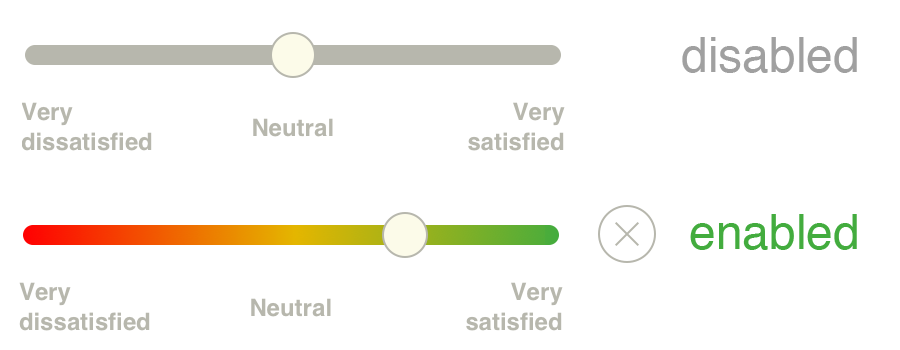
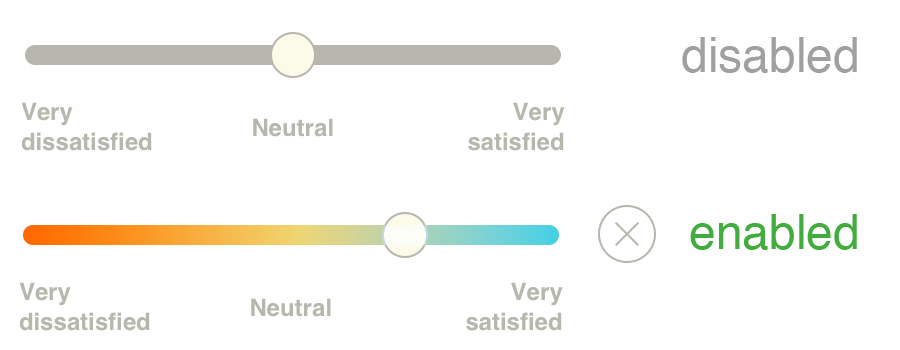
refactoring and bugfixing

Changed region(s): [[0.0, 0.6286, 0.4356, 0.7143], [0.4667, 0.6286, 0.6222, 0.7143]]

diff --git a/ICSlider/ICSlider.m b/ICSlider/ICSlider.m
@@ -40,62 +40,80 @@
 {
     self = [super initWithFrame:frame];
     if (self) {
-        
         NSUInteger sliderWidth = SLIDER_WIDTH_PERCENT * frame.size.width;
-        _sliderGrayBackground = [[UIImage graySliderImageForSize:CGSizeMake(sliderWidth, 10)] resizableImageWithCapInsets:UIEdgeInsetsMake(7, 7, 7, 7)];
-        _sliderGradientBackground = [[UIImage gradientSliderImageForSize:CGSizeMake(sliderWidth, 10)] resizableImageWithCapInsets:UIEdgeInsetsMake(7, 7, 7, 7)];
-        
-        _slider = [[UISlider alloc] initWithFrame:CGRectMake(0, 10, sliderWidth, 23)];
-        [self setSliderBackground:self.sliderGrayBackground];
-        [_slider setThumbImage:[[UIImage sliderThumbImageWithSize:CGSizeMake(26,26)]resizableImageWithCapInsets:UIEdgeInsetsMake(24, 24, 24, 24)] forState:UIControlStateNormal];
-        [_slider setMaximumValue:SLIDER_MAX_VALUE];
-        [_slider setMinimumValue:SLIDER_MIN_VALUE];
-        [_slider addTarget:self action:@selector(sliderDidUpdate:) forControlEvents:UIControlEventValueChanged];
-        [_slider setValue:SLIDER_CENTER_VALUE];
-        
-        [self addSubview:_slider];
 
-        CGFloat resetButtonSize = RESET_BUTTON_WIDTH_PERCENT * frame.size.width;
-        CGFloat resetButtonCenterX = frame.origin.x + frame.size.width - (resetButtonSize / 2.0);
-        CGFloat resetButtonCenterY = _slider.center.y;
-
-        _resetButton = [[UIButton alloc] initWithFrame:CGRectMake(0, 0, resetButtonSize, resetButtonSize)];
-        [_resetButton setCenter:CGPointMake(resetButtonCenterX, resetButtonCenterY)];
-        [_resetButton addTarget:self action:@selector(resetSlider) forControlEvents:UIControlEventTouchUpInside];
-        [_resetButton setImage:[UIImage sliderResetButtonImageForSize:_resetButton.frame.size] forState:UIControlStateNormal];
-        [self.resetButton setHidden:YES];
-        [self addSubview:_resetButton];
-
-        _minValueLabel = [[UILabel alloc] initWithFrame:CGRectMake(0, _slider.frame.size.height + LABEL_Y_OFFSET, LABEL_WIDTH, 40)];
-        [_minValueLabel setTextAlignment:NSTextAlignmentLeft];
-        [_minValueLabel setBackgroundColor:[UIColor clearColor]];
-        [_minValueLabel setNumberOfLines:NUMBER_OF_TEXT_LINES];
-        [_minValueLabel setFont:[UIFont fontWithName:LABEL_FONT_NAME size:LABEL_FONT_SIZE]];
-        [_minValueLabel setTextColor:LABEL_FONT_COLOR];
-        [_minValueLabel setText:@"Very dissatisfied"];
-        [self addSubview:_minValueLabel];
-
-        _midValueLabel = [[UILabel alloc] initWithFrame:CGRectMake(0, 0, LABEL_WIDTH, 40)];
-        [_midValueLabel setCenter:CGPointMake(_slider.center.x, _minValueLabel.center.y)];
-        [_midValueLabel setTextAlignment:NSTextAlignmentCenter];
-        [_midValueLabel setBackgroundColor:[UIColor clearColor]];
-        [_midValueLabel setNumberOfLines:NUMBER_OF_TEXT_LINES];
-        [_midValueLabel setFont:[UIFont fontWithName:LABEL_FONT_NAME size:LABEL_FONT_SIZE]];
-        [_midValueLabel setTextColor:LABEL_FONT_COLOR];
-        [_midValueLabel setText:@"Neutral"];
-        [self addSubview:_midValueLabel];
-
-        _maxValueLabel = [[UILabel alloc] initWithFrame:CGRectMake(_slider.frame.size.width - LABEL_WIDTH, _slider.frame.size.height + LABEL_Y_OFFSET, LABEL_WIDTH, 40)];
-        [_maxValueLabel setTextAlignment:NSTextAlignmentRight];
-        [_maxValueLabel setBackgroundColor:[UIColor clearColor]];
-        [_maxValueLabel setNumberOfLines:NUMBER_OF_TEXT_LINES];
-        [_maxValueLabel setFont:[UIFont fontWithName:LABEL_FONT_NAME size:LABEL_FONT_SIZE]];
-        [_maxValueLabel setTextColor:LABEL_FONT_COLOR];
-        [_maxValueLabel setText:@"Very satisfied"];
-        [self addSubview:_maxValueLabel];
+        [self setupSliderBackgroundsForWidth:sliderWidth];
+        [self setupSliderForWidth:sliderWidth];
+        [self setupResetButton];
+        [self setupLabels];
 
     }
     return self;
+}
+
+- (void)setupSliderBackgroundsForWidth:(CGFloat)width {
+    UIEdgeInsets capInsets = UIEdgeInsetsMake(7, 7, 7, 7);
+    self.sliderGrayBackground = [[UIImage graySliderImageForSize:CGSizeMake(width, 10)] resizableImageWithCapInsets:capInsets];
+    self.sliderGradientBackground = [[UIImage gradientSliderImageForSize:CGSizeMake(width, 10)] resizableImageWithCapInsets:capInsets];
+}
+
+- (void)setupSliderForWidth:(CGFloat)width {
+    self.slider = [[UISlider alloc] initWithFrame:CGRectMake(0, 10, width, 23)];
+    [self setSliderBackground:self.sliderGrayBackground];
+
+    UIImage *sliderThumbImage = [UIImage sliderThumbImageWithSize:CGSizeMake(26,26)];
+    sliderThumbImage = [sliderThumbImage resizableImageWithCapInsets:UIEdgeInsetsMake(24, 24, 24, 24)];
+
+    [self.slider setThumbImage:sliderThumbImage forState:UIControlStateNormal];
+    [self.slider setMaximumValue:SLIDER_MAX_VALUE];
+    [self.slider setMinimumValue:SLIDER_MIN_VALUE];
+    [self.slider addTarget:self action:@selector(sliderDidUpdate:) forControlEvents:UIControlEventValueChanged];
+    [self.slider setValue:SLIDER_CENTER_VALUE];
+
+    [self addSubview:self.slider];
+}
+
+- (void)setupResetButton {
+    CGFloat resetButtonSize = RESET_BUTTON_WIDTH_PERCENT * self.frame.size.width;
+    CGFloat resetButtonCenterX = self.frame.size.width - (resetButtonSize / 2.0);
+    CGFloat resetButtonCenterY = self.slider.center.y;
+
+    self.resetButton = [[UIButton alloc] initWithFrame:CGRectMake(0, 0, resetButtonSize, resetButtonSize)];
+    [self.resetButton setCenter:CGPointMake(resetButtonCenterX, resetButtonCenterY)];
+    [self.resetButton addTarget:self action:@selector(resetSlider) forControlEvents:UIControlEventTouchUpInside];
+    [self.resetButton setImage:[UIImage sliderResetButtonImageForSize:_resetButton.frame.size] forState:UIControlStateNormal];
+    [self.resetButton setHidden:YES];
+    [self addSubview:self.resetButton];
+}
+
+- (void)setupLabels {
+    CGFloat sliderWidth = self.slider.frame.size.width;
+    CGFloat sliderHeight = self.slider.frame.size.height;
+
+    CGRect minValueLabelFrame = CGRectMake(0, sliderHeight + LABEL_Y_OFFSET, LABEL_WIDTH, 40);
+    CGRect midValueLabelFrame = CGRectMake((sliderWidth - LABEL_WIDTH) / 2.0 , minValueLabelFrame.origin.y, LABEL_WIDTH, 40);
+    CGRect maxValueLabelFrame = CGRectMake(sliderWidth - LABEL_WIDTH, sliderHeight + LABEL_Y_OFFSET, LABEL_WIDTH, 40);
+
+    self.minValueLabel = [self labelWithText:@"Minimum value" frame:minValueLabelFrame alignment:NSTextAlignmentLeft];
+    self.midValueLabel = [self labelWithText:@"Medium value" frame:midValueLabelFrame alignment:NSTextAlignmentCenter];
+    self.maxValueLabel = [self labelWithText:@"Maximum value" frame:maxValueLabelFrame alignment:NSTextAlignmentRight];
+
+    [self addSubview:self.minValueLabel];
+    [self addSubview:self.midValueLabel];
+    [self addSubview:self.maxValueLabel];
+}
+
+- (UILabel*)labelWithText:(NSString*)text frame:(CGRect)frame alignment:(NSTextAlignment)alignment {
+    UILabel *label = [[UILabel alloc] initWithFrame:frame];
+
+    [label setTextAlignment:alignment];
+    [label setBackgroundColor:[UIColor clearColor]];
+    [label setNumberOfLines:NUMBER_OF_TEXT_LINES];
+    [label setFont:[UIFont fontWithName:LABEL_FONT_NAME size:LABEL_FONT_SIZE]];
+    [label setTextColor:LABEL_FONT_COLOR];
+    [label setText:text];
+
+    return label;
 }
 
 - (void)setSliderBackground:(UIImage*)backgroundImage {

diff --git a/ICSlider/UIImage+GradientSliderBackground.m b/ICSlider/UIImage+GradientSliderBackground.m
@@ -57,9 +57,9 @@ void drawHorizontalGradientInRoundedRect(CGContextRef context, CGRect rect, NSAr
     UIGraphicsBeginImageContextWithOptions(size, NO, 0.0);
     CGContextRef context= UIGraphicsGetCurrentContext();
 
-    UIColor *firstColor = [UIColor colorWithRed:255.0 green:0 blue:2.0 / 255.0 alpha:1];
-    UIColor *secondColor = [UIColor colorWithRed:228.0 / 255.0 green:182.0 /255.0 blue:0 alpha:1];
-    UIColor *thirdColor = [UIColor colorWithRed:67.0 /255.0 green:172.0 /255.0 blue:62.0 / 255.0 alpha:1];
+    UIColor *firstColor = [UIColor colorWithRed:255.0 / 255.0 green:105.0 / 255.0 blue:4.0 / 255.0 alpha:1];
+    UIColor *secondColor = [UIColor colorWithRed:239.0 / 255.0 green:213.0 /255.0 blue:114.0 / 255.0 alpha:1];
+    UIColor *thirdColor = [UIColor colorWithRed:72.0 /255.0 green:209.0 /255.0 blue:226.0 / 255.0 alpha:1];
 
     CGColorRef firstCGColor = [firstColor CGColor];
     CGColorRef secondCGColor = [secondColor CGColor];
